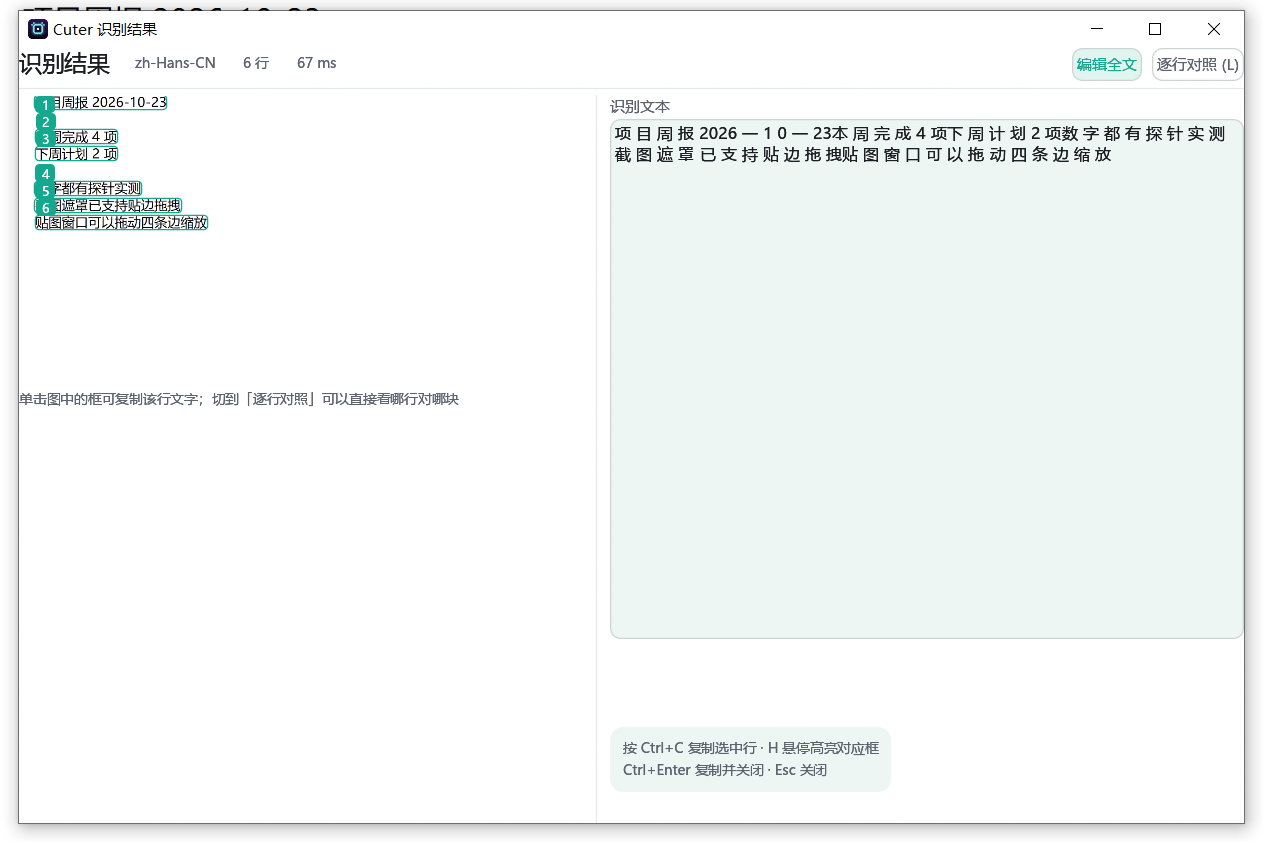
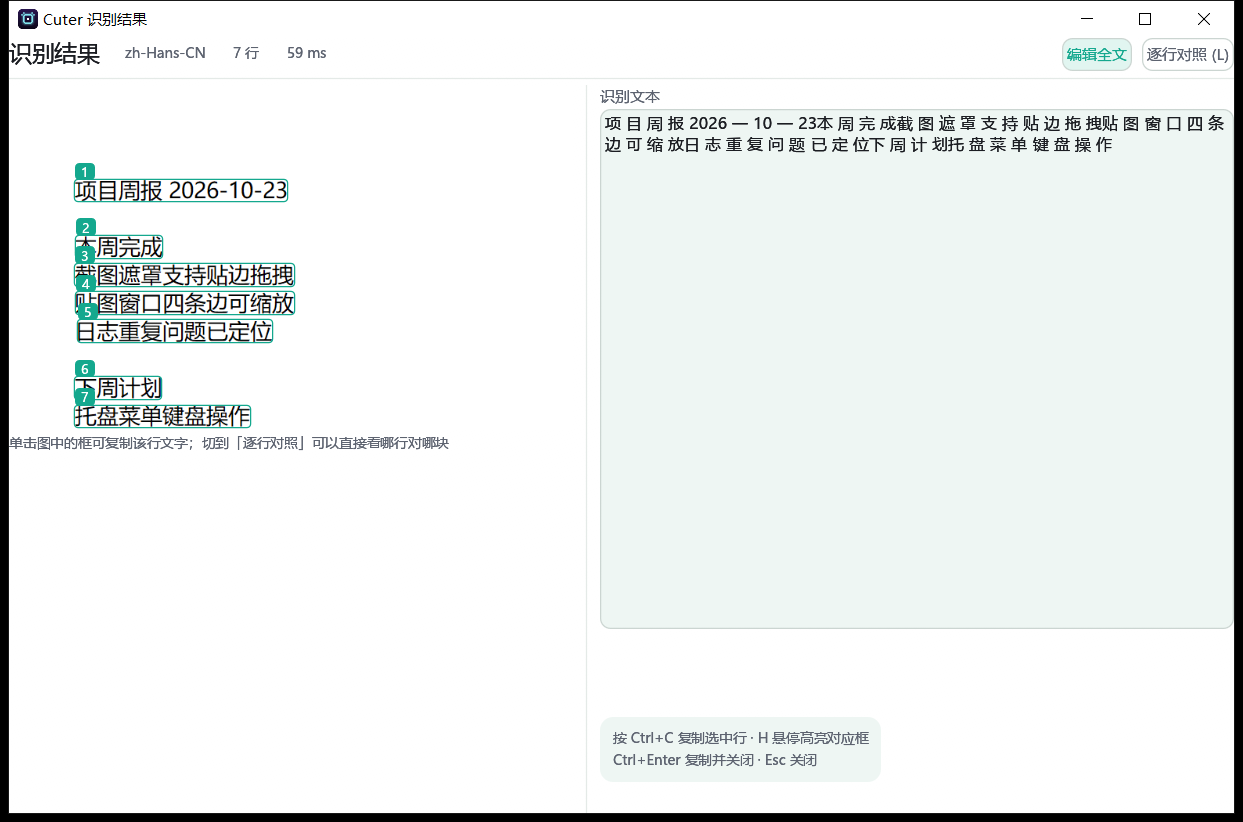
docs: rewrite README in the shape readers expect
The previous README was written as a blog post: no badges, no table of
contents, section names like "what it looks like", and screenshots of a
notepad window with the magnifier covering the text.

This one follows the usual project layout: badges, a table of contents,
a screenshot section with captions, grouped feature list, install table,
quick start with the default hotkeys, where config and data live, build
instructions, crate layout, how the project is tested, measured numbers,
known limits, and what to include in a bug report.

The three screenshots are new. The overlay one is captured from the
0.1.70 portable build with the magnifier turned off so it does not hide
the text, and the two window shots use PrintWindow so they do not depend
on what else happens to be on screen.

Also in this pass:

- RELEASES.md: two tables had no header row, so GitHub rendered them as
  plain text instead of tables.
- MAINTAINER.md: two sentences addressed the reader as a future self
  rather than a maintainer.
- tools/probe/README.md: dropped a reference to "this session", which
  means nothing to anyone reading the repository later.

Changed region(s): [[0.0, 0.0, 1.0, 1.0], [0.4891, 0.882, 0.7031, 0.9428]]

diff --git a/README.md b/README.md
@@ -1,111 +1,211 @@
 # Cuter
 
-Windows 上的截图工具。按下热键，屏幕先冻住，再框选、标注、复制或者贴到屏幕上；也能把一段不断往下滚的长页面拼成一张长图，或者把框住的地方识别成文字。
+[![License](https://img.shields.io/badge/license-GPL--3.0--or--later-blue.svg)](LICENSE)
+[![Release](https://img.shields.io/github/v/release/ChuGe1206/Cuter)](https://github.com/ChuGe1206/Cuter/releases/latest)
+[![Platform](https://img.shields.io/badge/platform-Windows%2010%20%7C%2011%20x64-0078d4)](https://github.com/ChuGe1206/Cuter/releases/latest)
+[![Rust](https://img.shields.io/badge/rust-1.88%2B-dea584)](rust-toolchain.toml)
 
-Rust + egui 写的，单个 exe，不用装运行时。
+Windows 上的截图与标注工具。按下热键后先冻结整个桌面再显示遮罩，框选过程画面不会变动；截图可以标注、复制、保存或贴回屏幕，也能把滚动的长页面拼成一张长图，或者框出一块区域识别成文字。
 
-**[下载最新版](https://github.com/ChuGe1206/Cuter/releases/latest)** · Windows 10/11 x64
+Rust + egui 实现，单个 exe，不需要安装运行时。
 
-## 长这样
+**[下载最新版](https://github.com/ChuGe1206/Cuter/releases/latest)**
 
-![框选](docs/design/shots/0.1.70-overlay.png)
+## 目录
+
+- [截图](#截图)
+- [功能](#功能)
+- [安装](#安装)
+- [快速上手](#快速上手)
+- [配置与数据](#配置与数据)
+- [从源码构建](#从源码构建)
+- [项目结构](#项目结构)
+- [测试与验证](#测试与验证)
+- [性能](#性能)
+- [已知限制](#已知限制)
+- [反馈问题](#反馈问题)
+- [许可证](#许可证)
+
+## 截图
+
+框选区域，八向控制点可调整，下方是标注工具条：
+
+![框选截图](docs/design/shots/0.1.70-overlay.png)
+
+识别文字：左侧是图，右侧是文字，点框复制该行，悬停文字高亮对应框：
 
 ![识别文字](docs/design/shots/0.1.70-ocr.png)
 
-## 能干什么
+设置界面：
 
-**截图。** 热键按下先捕获整个桌面再显示遮罩，所以框选过程中画面不会变，也不会拍到别的窗口闪一下。框选会吸附窗口边缘和屏幕中线，按住 Alt 临时关掉吸附。八向控制点、方向键微调（Shift 十倍）、Ctrl+A 全选、Ctrl+R 复原上一次的选区、双击确认、右键取消。
+![设置界面](docs/design/shots/0.1.70-settings.png)
 
-**标注。** 矩形、椭圆、箭头、画笔、荧光笔、马赛克、模糊、文字、序号。颜色和线宽可调，能撤销重做。
+## 功能
 
-**贴图。** 截完直接按 Alt+V 贴到屏幕上，滚轮缩放，不透明度、投影、鼠标穿透都能调，还能分组。贴图可以按住 Ctrl 拖到资源管理器或聊天窗口里。
+**截图**
 
-**长截图。** Alt+S 进滚动模式，框好区域回车开始，然后你自己在目标窗口里往下滚，程序定时抓同一块区域、按行匹配算位移再拼起来。纵向横向都认，往回滚也不会重复。
+- 全屏冻结后框选，画面与按下热键时完全一致
+- 吸附到窗口边缘、屏幕中线与控件边界，按住 `Alt` 临时关闭吸附
+- 八向控制点、方向键微调（`Shift` 加速）、`Ctrl+A` 全选、`Ctrl+R` 复原上次选区
+- 双击确认，右键取消，`Esc` 退出
 
-**识别文字。** 框选后 Ctrl+O，左边是图、右边是文字，图上的文本块点一下就复制那一行，光标移到右边某一行，图上对应位置会高亮。默认走 Windows 自带的 OCR（离线、零下载），嫌不够准可以接自己搭的 PaddleOCR 服务。
+**标注**
 
-**截图历史。** 每次成功交付的截图都会存一份无损原图，托盘菜单里能翻回去再复制、再贴图或者删掉。
+- 矩形、椭圆、箭头、画笔、荧光笔、马赛克、模糊、文字、序号
+- 颜色、线宽、字号可调，支持撤销与重做
+- 标注在导出时才栅格化，预览与导出结果一致
 
-**命令行。** `--full`、`--monitor`、`--region`、`--pin`、`--tray`、`--history` 这些，脚本里用得上。
+**贴图**
 
-界面中英双语，设置 → 通用里切换。
+- 截图直接贴回屏幕，滚轮缩放，可调不透明度、投影、鼠标穿透
+- 贴图可以分组，`Alt+H` 隐藏或显示整组，`Alt+G` 切换分组
+- 按住 `Ctrl` 把贴图拖进资源管理器或其他应用，对方会收到一个图片文件
 
-## 快捷键
+**滚动截屏**
 
-| 操作 | 默认键 |
+- 框好区域后自行滚动目标窗口，程序定时抓取同一块区域并按行匹配拼接
+- 支持纵向与横向，往回滚不会产生重复内容
+- 也可以让程序替你滚（`A` 键），对忽略合成滚轮的程序无效
+
+**识别文字**
+
+- 默认使用 Windows 自带的 OCR，离线运行，不下载模型
+- 结果面板支持逐行对照，点框复制单行，悬停高亮
+- 可以改用自己搭建的 PaddleOCR hubserving 服务，配置里填接口地址即可
+
+**截图历史**
+
+- 每次成功交付的截图都保留一份无损原图
+- 托盘菜单可以翻回去重新复制、重新贴图或删除
+
+**命令行**
+
+```shell
+cuter --full --out shot.png      # 截取整个桌面
+cuter --monitor -m 1             # 截取指定显示器
+cuter --region 100,100,800,600   # 截取指定区域
+cuter --pin                      # 把剪贴板图片贴到屏幕上
+cuter --tray                     # 启动并驻留托盘
+```
+
+**界面** 中英双语，设置 → 通用里切换。
+
+## 安装
+
+从 [Releases](https://github.com/ChuGe1206/Cuter/releases/latest) 下载任意一种，均为 Windows 10/11 x64：
+
+| 形式 | 文件 | 说明 |
+|---|---|---|
+| 便携版 | `cuter-<版本>-portable-x64.zip` | 解压即用，配置、日志、截图历史都在 exe 旁边，不写系统目录 |
+| 安装版 | `cuter-<版本>-x64-setup.exe` | 装到 `%LOCALAPPDATA%\Programs\Cuter`，不需要管理员权限，卸载时保留配置与历史 |
+
+程序未做代码签名，首次运行 Windows 会提示「未知发布者」。介意的话使用便携版，并把解压目录加入 Defender 排除项。
+
+## 快速上手
+
+1. 双击 `cuter.exe`，程序驻留托盘
+2. 按 `Alt+C` 框选区域
+3. 需要标注就用下方工具条，不需要就直接回车保存或 `Ctrl+C` 复制
+
+默认热键（设置 → 快捷键里可以改）：
+
+| 操作 | 热键 |
 |---|---|
 | 框选截图 | `Alt+C` |
 | 截取当前显示器 | `Alt+X` |
 | 滚动截屏 | `Alt+S` |
 | 贴图（剪贴板图片） | `Alt+V` |
-| 隐藏 / 显示全部贴图 | `Alt+H` |
-| 切到下一个贴图组 | `Alt+G` |
+| 隐藏或显示全部贴图 | `Alt+H` |
+| 切换到下一个贴图组 | `Alt+G` |
+| 识别文字 | `Alt+O` |
 
-都能在设置里改。框选之后还有：回车保存、Ctrl+C 复制、Ctrl+O 识别、Ctrl+A 全选、Esc 取消。
+框选状态下另有：`Enter` 保存、`Ctrl+C` 复制、`Ctrl+O` 识别、`Ctrl+A` 全选、`Esc` 取消。
 
-## 下载
+## 配置与数据
 
-两个文件，都是 64 位，Windows 10 / 11 能用：
+| 模式 | 配置文件 | 日志 | 截图历史 |
+|---|---|---|---|
+| 便携版 | `config.toml`（exe 旁边） | `logs\cuter.log` | `data\history\` |
+| 安装版 | `%APPDATA%\Cuter\config.toml` | `%APPDATA%\Cuter\logs\cuter.log` | `%LOCALAPPDATA%\Cuter\history\` |
 
-- `cuter-<版本>-portable-x64.zip`：解压就能跑。exe 旁边放一个空的 `cuter.portable` 文件就进入便携模式，配置、日志、截图全落在 exe 旁边，不碰 `%APPDATA%`。
-- `cuter-<版本>-x64-setup.exe`：装到 `%LOCALAPPDATA%\Programs\Cuter`，不需要管理员权限，卸载时保留设置和截图。
+便携模式通过 exe 旁边的空文件 `cuter.portable` 触发。配置文件损坏时程序会备份原文件（带时间戳）并回退默认值，状态栏会提示备份位置。
 
-两个产物都没有代码签名，第一次运行 Windows 会弹「未知发布者」。介意的话用 zip 版，或者把解压目录加进 Defender 的排除项。
+设置 → 诊断可以查看捕获后端、启动耗时、显示器信息，并提供打开配置目录与日志目录的入口。
 
-## 自己编译
+## 从源码构建
 
-需要 Rust 1.88 以上和 MSVC 工具链。
-
-```shell
-cargo build --release                                            # → target\release\cuter.exe
-powershell -File .\tools\package\portable_zip.ps1                # → dist\cuter-<版本>-portable-x64.zip
-powershell -File .\tools\package\build_installer.ps1             # → dist\cuter-<版本>-x64-setup.exe
-```
-
-exe 带版本资源和图标。改了图标图形要重跑 `cargo run -p cuter-app --example dump_icon -- crates/cuter-app/assets/cuter.ico`，不然资源段里还是旧的。
-
-## 怎么验证的
-
-截图软件的很多行为单测证明不了：截出来的像素对不对、遮罩上有没有混进自己的窗口、托盘菜单点 Esc 会不会关、贴图拖进资源管理器对方收不收得到。所以 `tools/probe/` 下面有 32 个桌面探针，真的开窗口、真的发按键、真的抓屏幕，然后对着像素和日志断言，通过退出码 0，失败 1，环境不允许跑（比如别的程序占着键盘）2。
+需要 Rust 1.88 或更高版本、MSVC 工具链，Windows 10/11 x64。
 
 ```shell
-cargo test --workspace                                            # 348 个单测，不需要桌面
-powershell -File .\tools\probe\run_all.ps1 -Quick                 # 26 个快速探针
-powershell -File .\tools\ci\check.ps1                             # 门禁：clippy + 单测 + i18n + 文档引用 + release 构建
+cargo build --release                 # 产物：target\release\cuter.exe
+cargo test --workspace                # 单元测试，无需桌面
 ```
 
-门禁里任何一步失败都返回非零。文档里的每个数字都是这么跑出来的，`docs/HANDOFF.md` 记着每个 bug 是怎么定位的、用什么判据确认修好了。
+打包产物（可选，需要 Inno Setup，脚本会自动下载免安装版本）：
 
-## 几个数字
+```shell
+powershell -File .\tools\package\portable_zip.ps1      # dist\cuter-<版本>-portable-x64.zip
+powershell -File .\tools\package\build_installer.ps1   # dist\cuter-<版本>-x64-setup.exe
+```
 
-| | 实测 |
+修改图标后需要重新生成 ico 文件，否则资源段里仍是旧图标：
+
+```shell
+cargo run -p cuter-app --example dump_icon -- crates/cuter-app/assets/cuter.ico
+```
+
+## 项目结构
+
+| crate | 职责 |
 |---|---|
-| exe | 8.6 MB（便携包 4.2 MB） |
+| `cuter-core` | 位图、几何、屏幕捕获、滚动拼接、OCR 接口、配置。不依赖窗口库，可无头测试 |
+| `cuter-ui` | 遮罩、工具条、标注、贴图、各面板、主题与 i18n |
+| `cuter-app` | 窗口与视口、托盘、全局热键、单实例、桌面集成 |
+
+`tools/probe/` 是桌面端到端探针，`tools/ci/check.ps1` 是提交门禁，`tools/package/` 是打包脚本。
+
+## 测试与验证
+
+截图类软件的很多行为单元测试证明不了：像素内容是否正确、遮罩里会不会混进自己的窗口、托盘按 `Esc` 是否关闭、贴图拖进资源管理器对方能否收到。因此项目提供一组真实操作桌面的探针：开窗口、发按键、抓屏幕，对着像素和日志断言。
+
+```shell
+cargo test --workspace                             # 348 个单元测试（另有 11 个需要桌面的被忽略）
+powershell -File .\tools\probe\run_all.ps1         # 32 个桌面探针，约 25 分钟
+powershell -File .\tools\probe\run_all.ps1 -Quick  # 26 个快速探针，约 5 分钟
+powershell -File .\tools\ci\check.ps1              # 提交门禁：clippy + 单测 + i18n + 文档引用 + release 构建
+```
+
+探针退出码：`0` 通过，`1` 失败，`2` 环境不允许运行（例如键盘被其他程序占用）。跳过不等于通过，`run_all.ps1` 会单独列出。
+
+## 性能
+
+在开发机（1080p、125% 缩放、单显示器）上实测：
+
+| 指标 | 数值 |
+|---|---|
+| exe 体积 | 8.6 MB（便携包 4.2 MB） |
 | 冷启动到遮罩可见 | 约 0.6 秒 |
-| `--full`：进程启动到 PNG 落盘 | 中位 140~170 ms |
-| 托盘待命（私有内存） | 约 29 MB，闲置半分钟工作集收回个位数 |
+| `--full` 进程启动到 PNG 落盘 | 中位 140 到 170 ms |
+| 托盘待命私有内存 | 约 29 MB，闲置半分钟后工作集回收到个位数 MB |
 
-这些是我自己那台机器（1080p、125% 缩放）上量的，换机器会有差别，也会随版本变。复现命令在 `tools/probe/perf_probe.ps1` 和 `latency_probe.ps1`。
+换机器会有差异，也可能随版本变化。复现命令见 `tools/probe/perf_probe.ps1` 与 `tools/probe/latency_probe.ps1`。
 
-至于「比 Electron 系省多少」，我不打算在 README 里跟别人比：这里的一切都是自己量的，别人的数字我复现不了。
+## 已知限制
 
-## 还没做的
+- **未签名**：首次运行会触发 SmartScreen 提示，Defender 曾误报 `Behavior:Win32/Persistence.A!ml`（程序会写开机自启项并常驻热键，无签名时缺少信任来源）
+- **多显示器混合缩放未验证**：开发环境只有单屏，检测到混合缩放时程序会提示改用「当前显示器」
+- **屏幕翻译、以图搜图未实现**：这类功能需要外部 HTTP 端点，程序不内置服务
+- **自动滚动**在部分程序中无效，它们忽略合成的滚轮消息
+- **macOS / Linux 未实现**：`ScreenCapture` trait 已隔离平台差异，但 Wayland 不提供帧缓冲，无法实现冻结遮罩
 
-- **代码签名**。没有证书，所以首次运行会有 SmartScreen 提示。
-- **多显示器混合缩放**没验证过，开发机只有一块屏。检测到混合缩放时程序会提示改用「当前显示器」。
-- **屏幕翻译、以图搜图**没做。
-- **自动滚动**（让程序自己滚，而不是人滚）在很多程序里不生效，所以默认关着。
-- macOS / Linux 只有架构位置，没有实现。
+## 反馈问题
 
-## 文档
+提 issue 时请附上：
 
-- [`docs/HANDOFF.md`](docs/HANDOFF.md) —— 开发日志，93 节，一节一个 bug 的定位过程
-- [`docs/MAINTAINER.md`](docs/MAINTAINER.md) —— 上手、不能破的规矩、发布流程
-- [`docs/RELEASES.md`](docs/RELEASES.md) —— 每一版的变化
-- [`docs/config-audit.md`](docs/config-audit.md) —— 配置项和代码作用点的对照表
-- [`docs/design/`](docs/design) —— 设计系统、稿子、实现对照
-- [`tools/probe/`](tools/probe) —— 那 32 个探针
+- 系统版本与显示缩放比例
+- 设置 → 诊断页面的截图（含捕获后端与启动耗时）
+- `logs\cuter.log` 最后一段（诊断页有「打开日志目录」）
 
-## 许可
+## 许可证
 
-GPL-3.0-or-later。
+[GPL-3.0-or-later](LICENSE)。

diff --git a/docs/RELEASES.md b/docs/RELEASES.md
@@ -4,11 +4,15 @@
 
 ## 装哪个
 
+| 形式 | 文件 | 说明 |
+| --- | --- | --- |
 | 免安装 | `cuter-<版本>-portable-x64.zip` | 解压即用。配置、日志、截图历史、默认保存目录都在 exe 旁边，不碰系统 |
 | 安装 | `cuter-<版本>-x64-setup.exe` | 装进 `%LOCALAPPDATA%\Programs\Cuter`，不需要管理员。卸载时保留你的配置 |
 
 默认热键（设置里都能改）：
 
+| 热键 | 作用 |
+| --- | --- |
 | `Alt+C` | 框选截图 |
 | `Alt+X` | 截当前显示器 |
 | `Alt+S` | 滚动截屏（框选后回车开始；按 `A` 让程序替你滚） |

diff --git a/tools/probe/README.md b/tools/probe/README.md
@@ -1,7 +1,7 @@
 # 脚本化 UI 测试探针
 
 这些 C# 片段配合 `Add-Type -Path` 使用，用来**在没有人类操作的情况下**测一个 GUI 截图工具。
-本次会话里所有关于窗口几何、遮罩渲染、贴图内容的结论都是靠它们拿到的。
+项目里关于窗口几何、遮罩渲染、贴图内容的结论都来自这些探针。
 
 ```powershell
 Add-Type -Path "tools\probe\WinDpi.cs"
